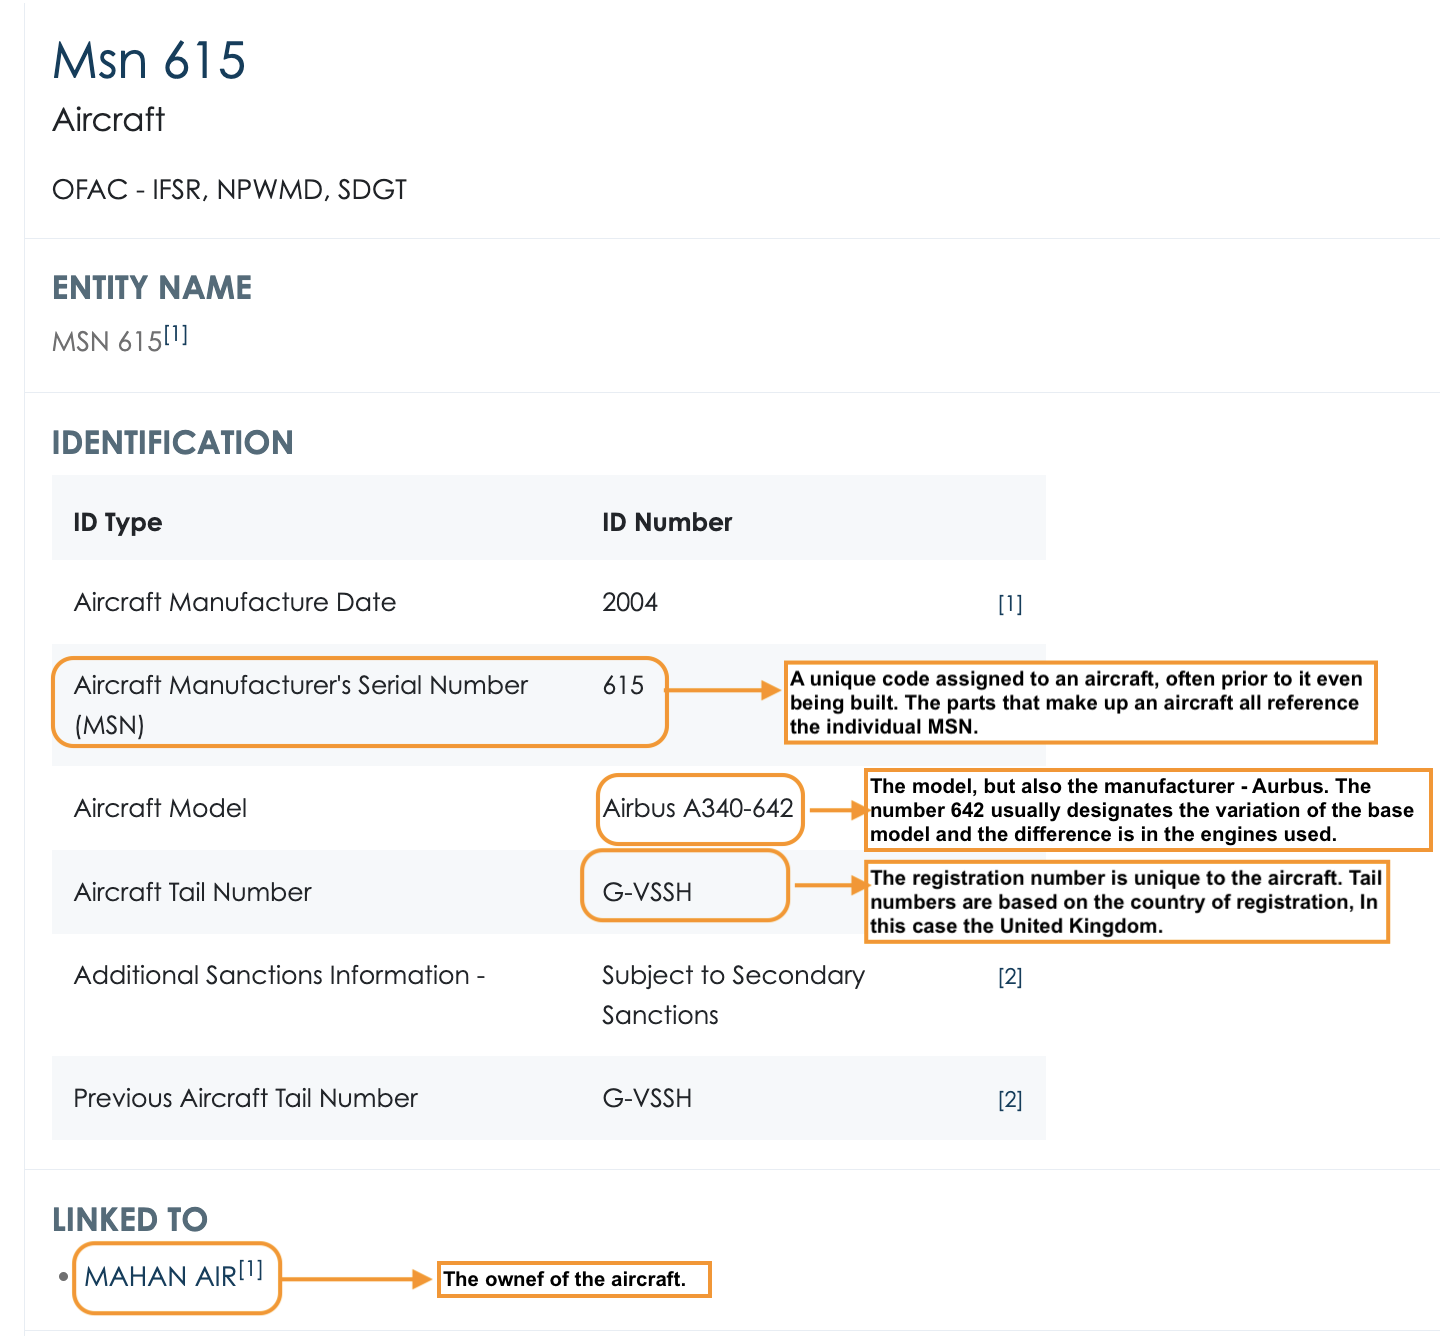
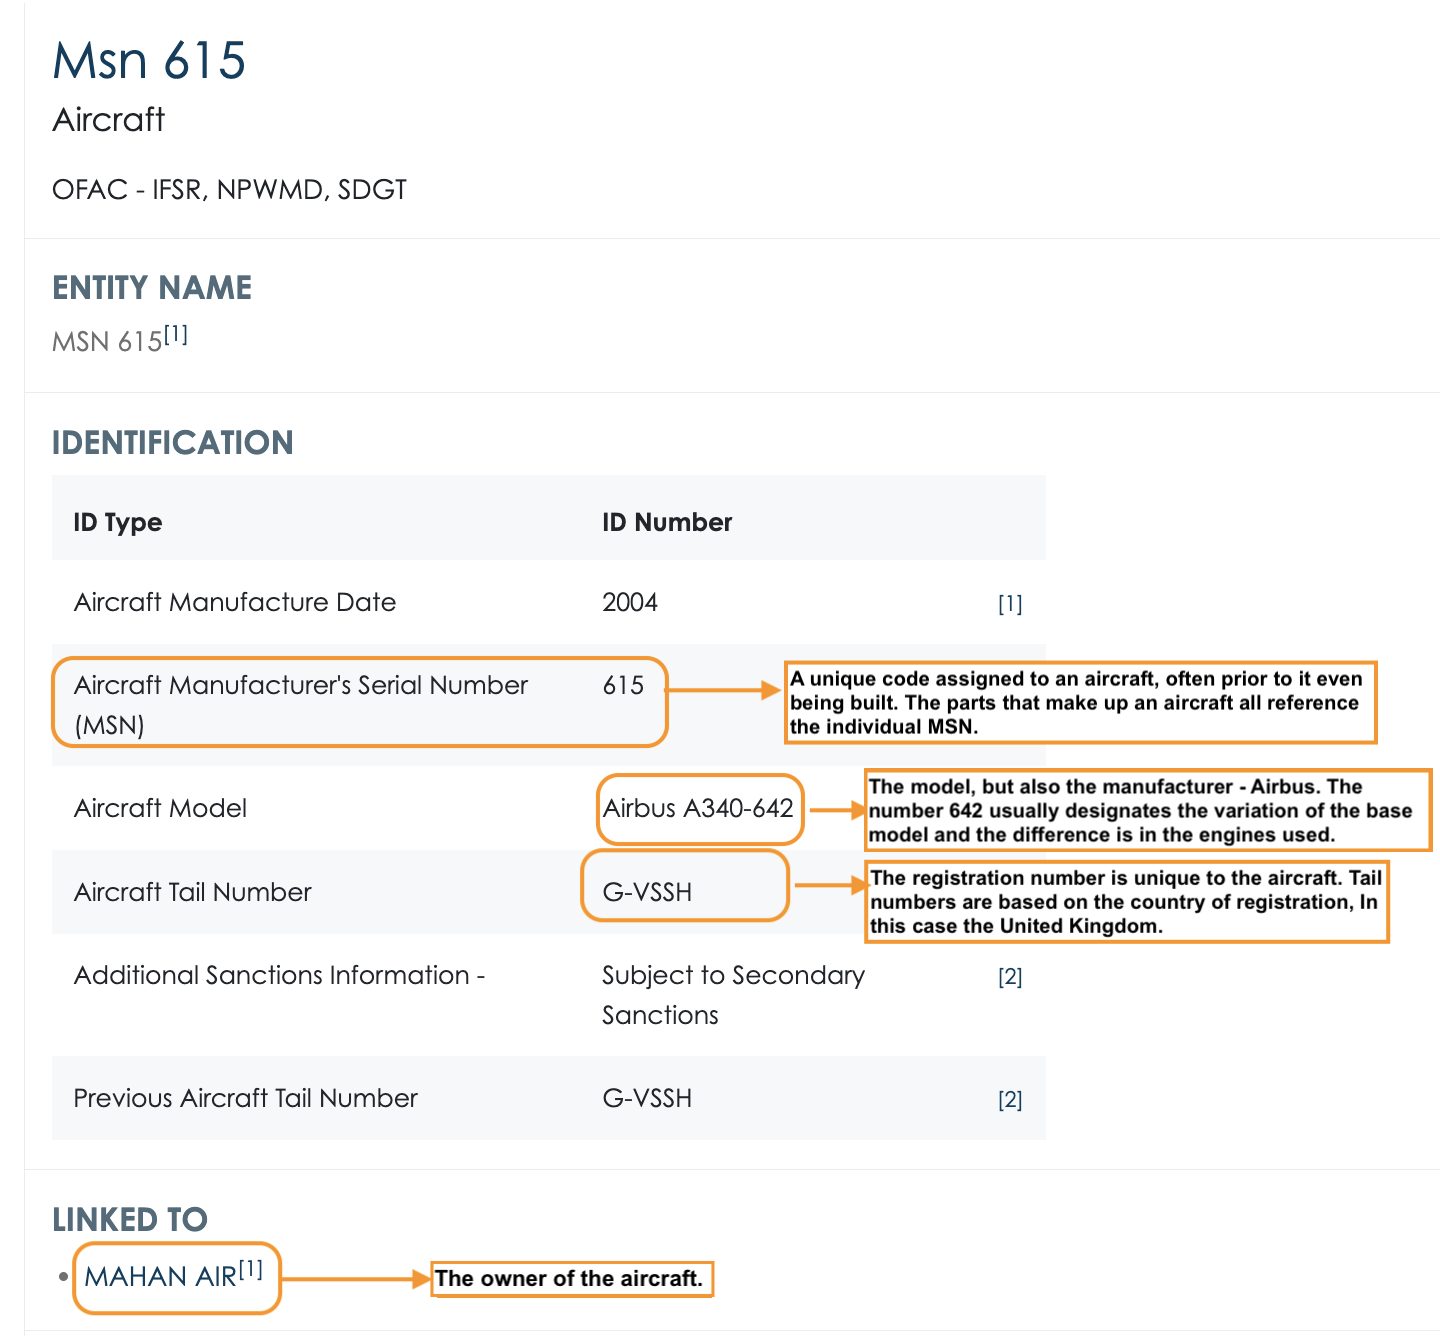
GITBOOK-sanctionsexplorer-4: Lora's Sep 13 changes

Changed region(s): [[0.5938, 0.5831, 1.0, 0.6445], [0.2812, 0.9513, 0.5, 0.982]]

diff --git a/gitbook/tools/sanctionsexplorer/README.md b/gitbook/tools/sanctionsexplorer/README.md
@@ -10,7 +10,7 @@ description: Database of OFAC/UN/EU sanctions
 
 ## Description
 
-Sanctions Explorer is a collaboration between Archer, a former Berkeley-based nonprofit, and C4ADS, a nonprofit dedicated to providing data-driven, evidence-based research on global conflict and transnational security issues. The current iteration of Sanctions Explorer was developed fully by C4ADS Data and Technology team, and is meant to be a comprehensive source of all current and historical sanctions data across all major sanctioning authorities.
+Sanctions Explorer is a joint project between two non-profits – [Archer](https://archerimpact.com/about), a former nonprofit based in Berkeley, and [C4ADS](https://c4ads.org/about-us/), an organization focused on data-driven, evidence-based research on global conflict and transnational security. The current version of Sanctions Explorer was developed by C4ADS as a “[comprehensive source](https://sanctionsexplorer.org/about) of all current and historical sanctions data across all major sanctioning authorities.”
 
 It includes sanctions imposed by the U.S. Office of Foreign Assets Control (OFAC), the United Nations (UN), the European Union (EU), the United Kingdom (UK), the U.S. Department of Commerce, Bureau of Industry and Security (BIS) and Japan. Sanctions Explorer persistently monitors the UN, EU, and OFAC websites for updates to the sanctions lists and publishes the new data to the website as it goes active. The home page shows the time of the most recent update of the sanctions database which is updated daily.
 
@@ -54,7 +54,7 @@ Clicking on any of the Entity Names will open the profile for that specific enti
 
 <figure><img src=".gitbook/assets/SE7.png" alt="" width="563"><figcaption><p>Profile for Hap Jang Gang vessel. Click to expand and view explanation notes.</p></figcaption></figure>
 
-* An example of what a profile for an aircraft looks like. The information includes the manufacure date, the model of the aircraft (this usually includes the name of manufacturer, but not always), the current and sometimes the previous tail number, and the owner of the aircraft. Please note that to search for aircraft in Sanctions Explorer, you can use either the tail number, the name of the aircraft or the manufacturer (Airbus, Sikorsky, LockheedMartin, Bell Helicopter, Embraer, Bombardier to name a few), or the model (Phenom 300 - an Embraer-made business jet, CRJ100 - a Bombardier-made regional jet).
+* An example of what a profile for an aircraft looks like. The information includes the manufacure date, the model of the aircraft (this usually includes the name of manufacturer, but not always), the current and sometimes the previous [tail number](#user-content-fn-1)[^1], and the owner of the aircraft. Please note that to search for aircraft in Sanctions Explorer, you can use either the tail number, the name of the aircraft or the manufacturer (Airbus, Sikorsky, LockheedMartin, Bell Helicopter, Embraer, Bombardier to name a few), or the model (Phenom 300 - an Embraer-made business jet, CRJ100 - a Bombardier-made regional jet).
 
 <div>
 
@@ -114,3 +114,5 @@ Center for Advanced Defense Studies - C4ADS. A 501 nonprofit research organizati
 | --------------- |
 | LPetrova        |
 |                 |
+
+[^1]: The tail number, or aircraft registration number, is a unique alphanumeric code assigned to each aircraft as a fundamental requirement under International Civil Aviation Organization (ICAO) regulations.
